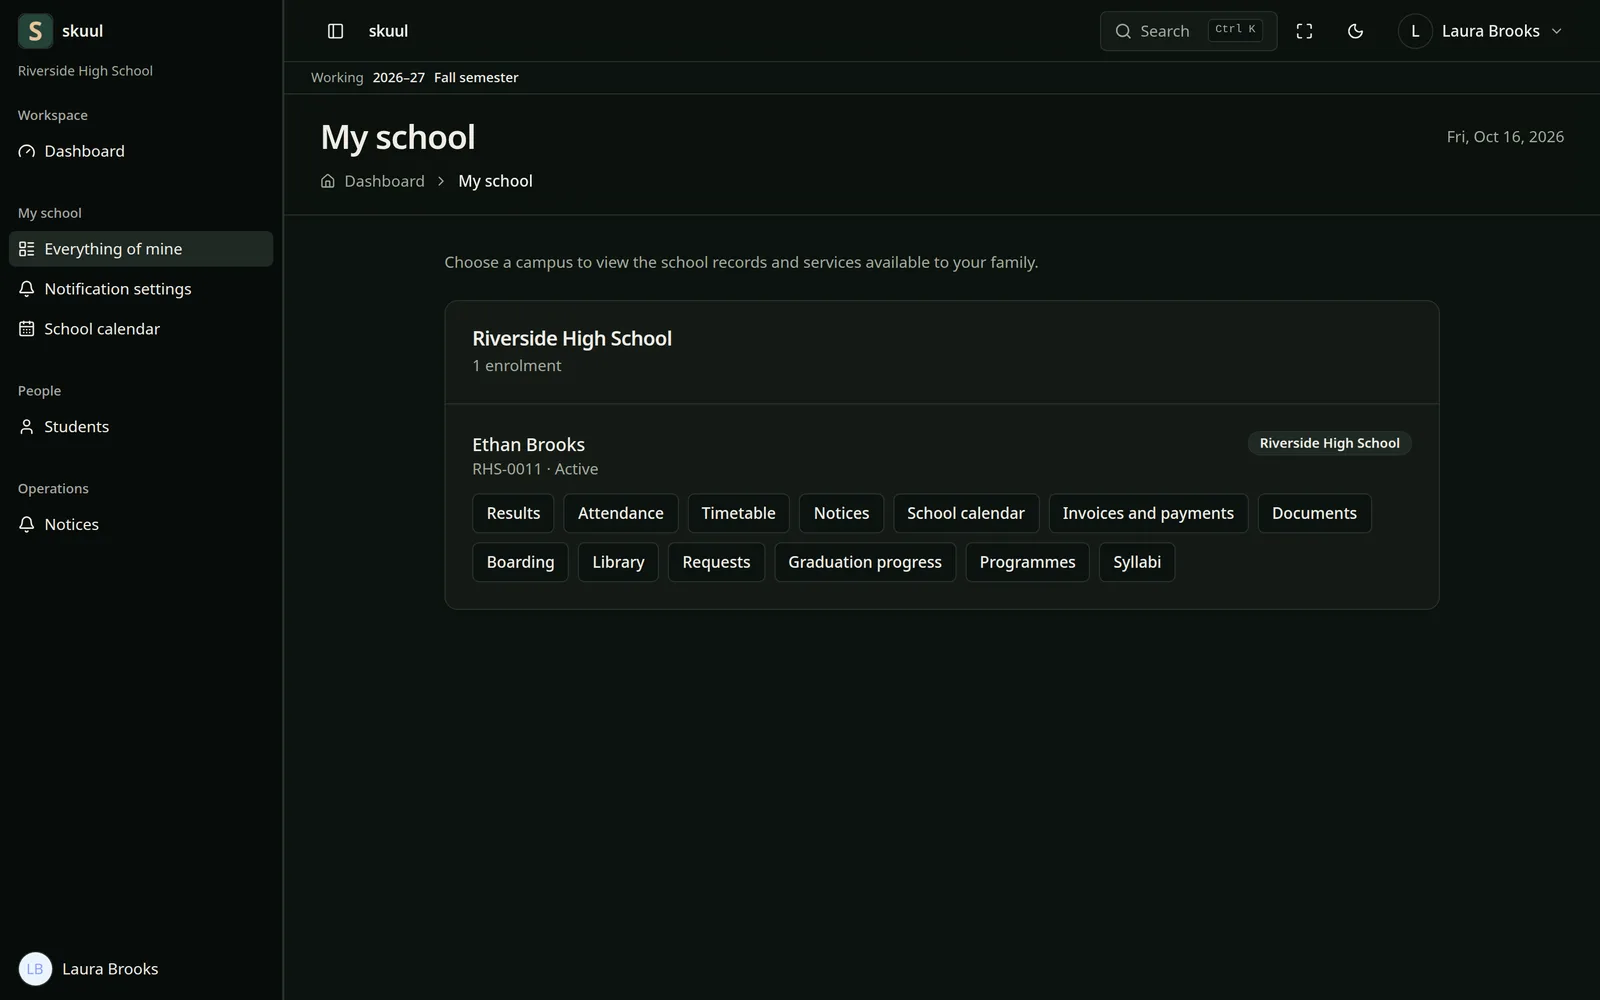
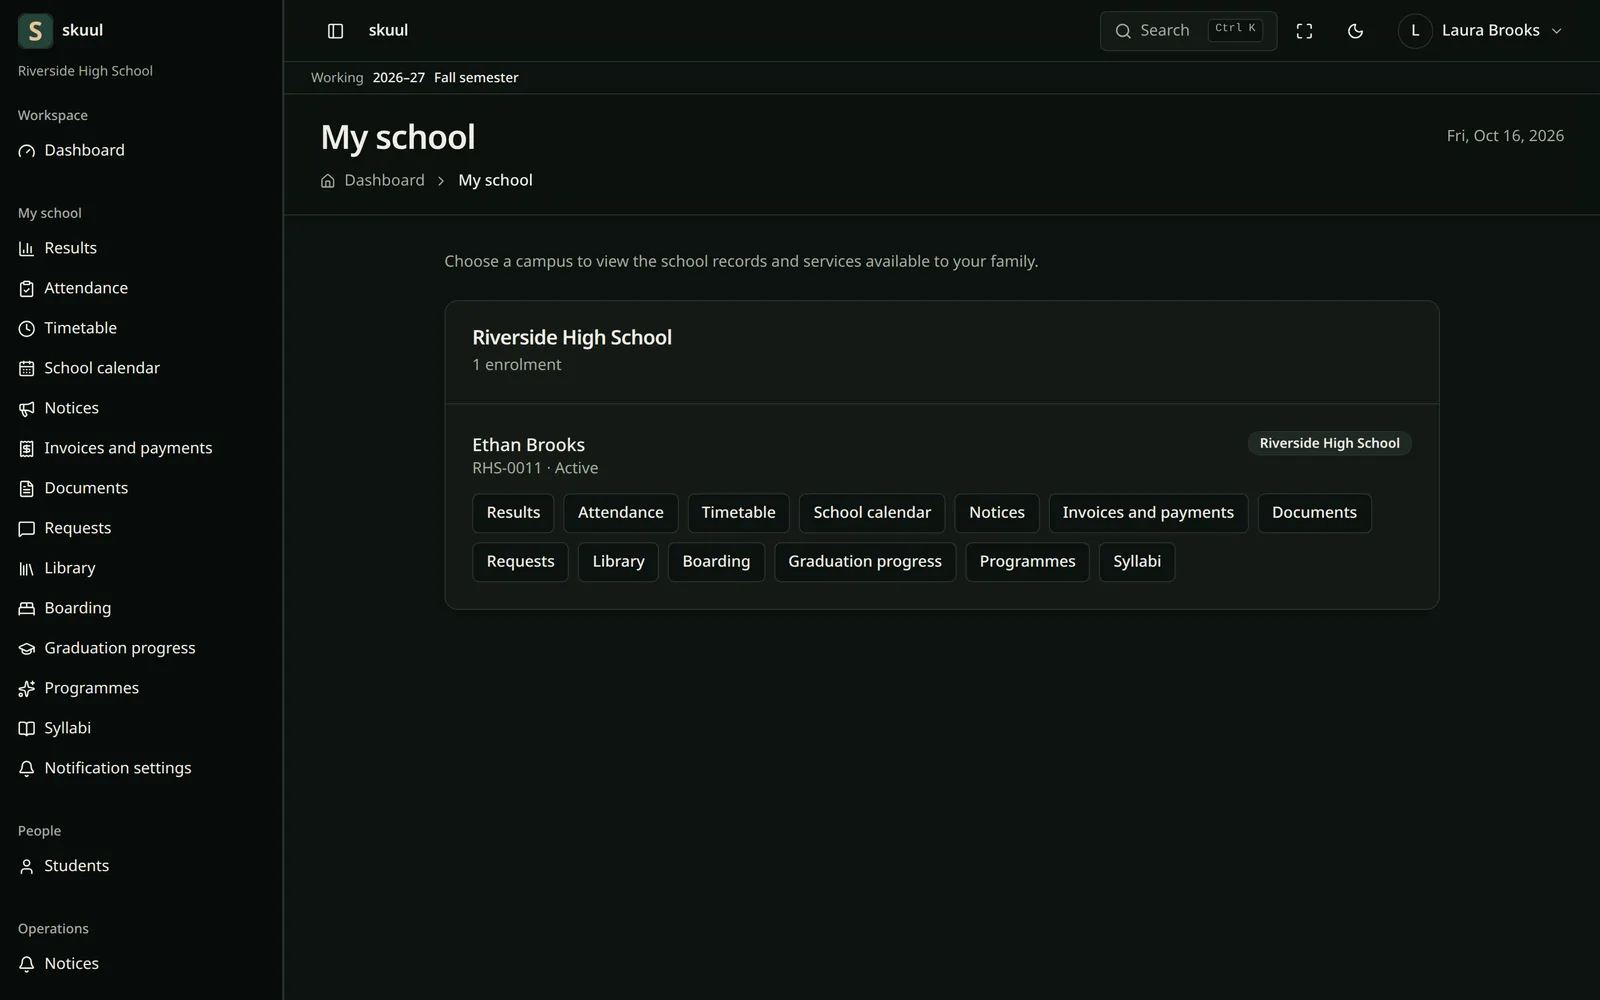
Show the Skuul portal sidebar in the family screenshot

diff --git a/resources/views/pages/showcase/skuul.blade.php b/resources/views/pages/showcase/skuul.blade.php
@@ -31,8 +31,8 @@
         [
             'slug' => 'family',
             'title' => 'Family portal',
-            'description' => 'A parent picks a campus and goes straight to results, attendance, and payments.',
-            'alt' => 'The Skuul family portal showing one campus and one enrolled child, with shortcuts to results, attendance, and invoices',
+            'description' => 'Each page a parent or student can open is listed in the sidebar.',
+            'alt' => 'The Skuul family portal for one enrolled child, with its pages listed in the sidebar and as buttons on the page',
             'class' => '',
         ],
     ];
